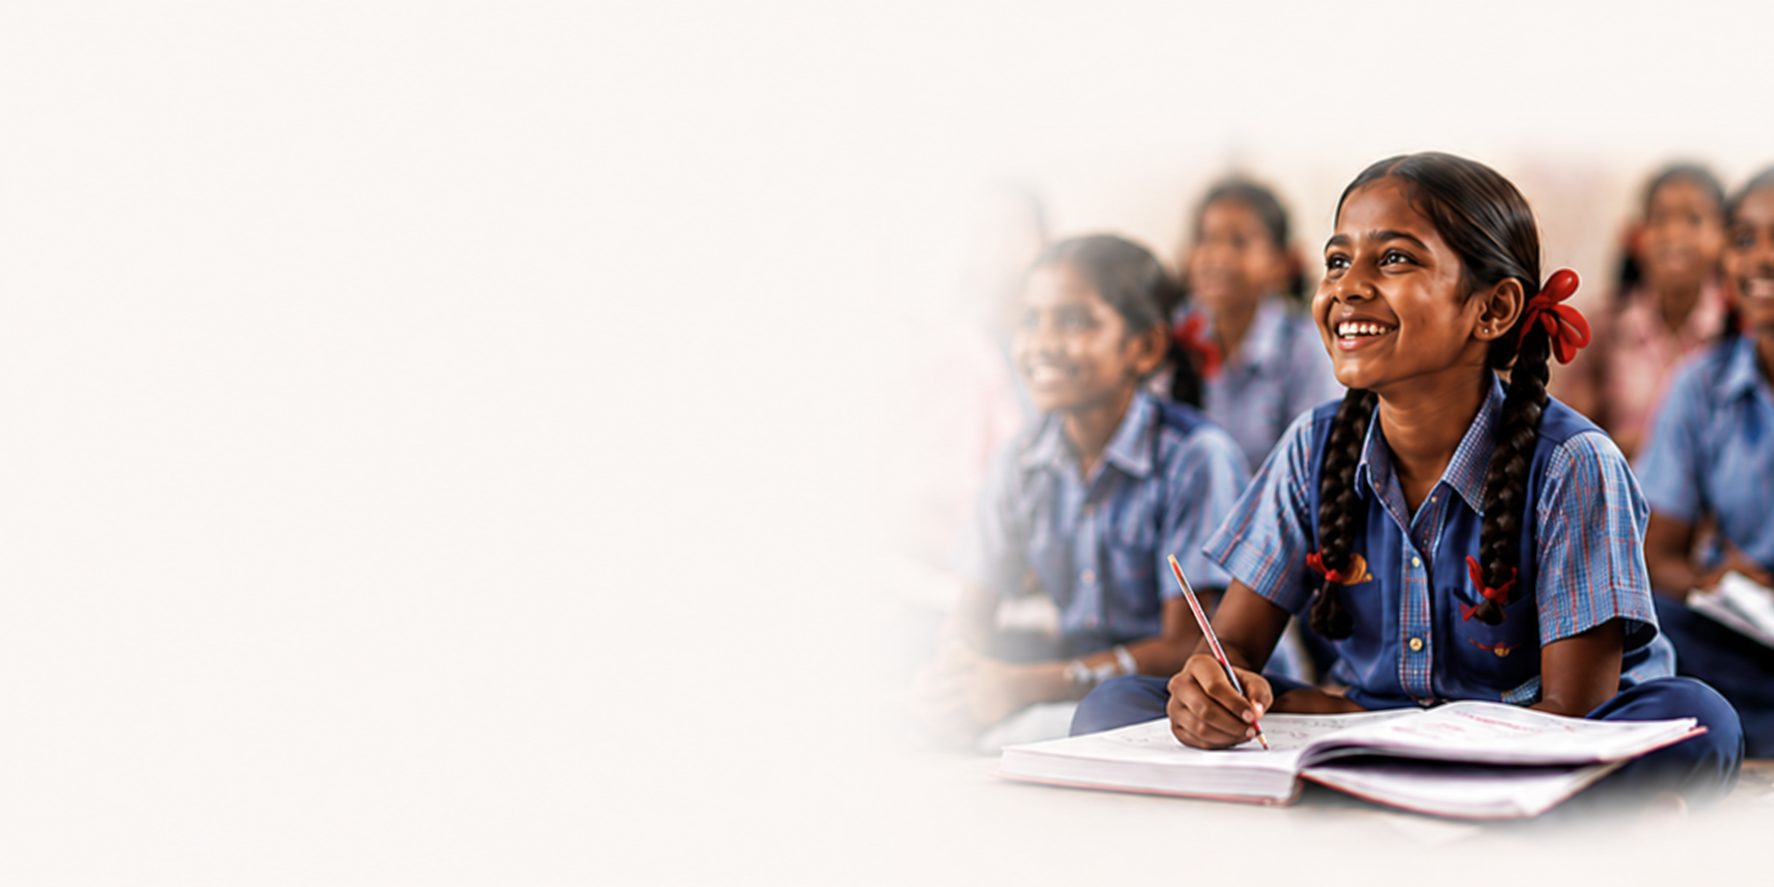
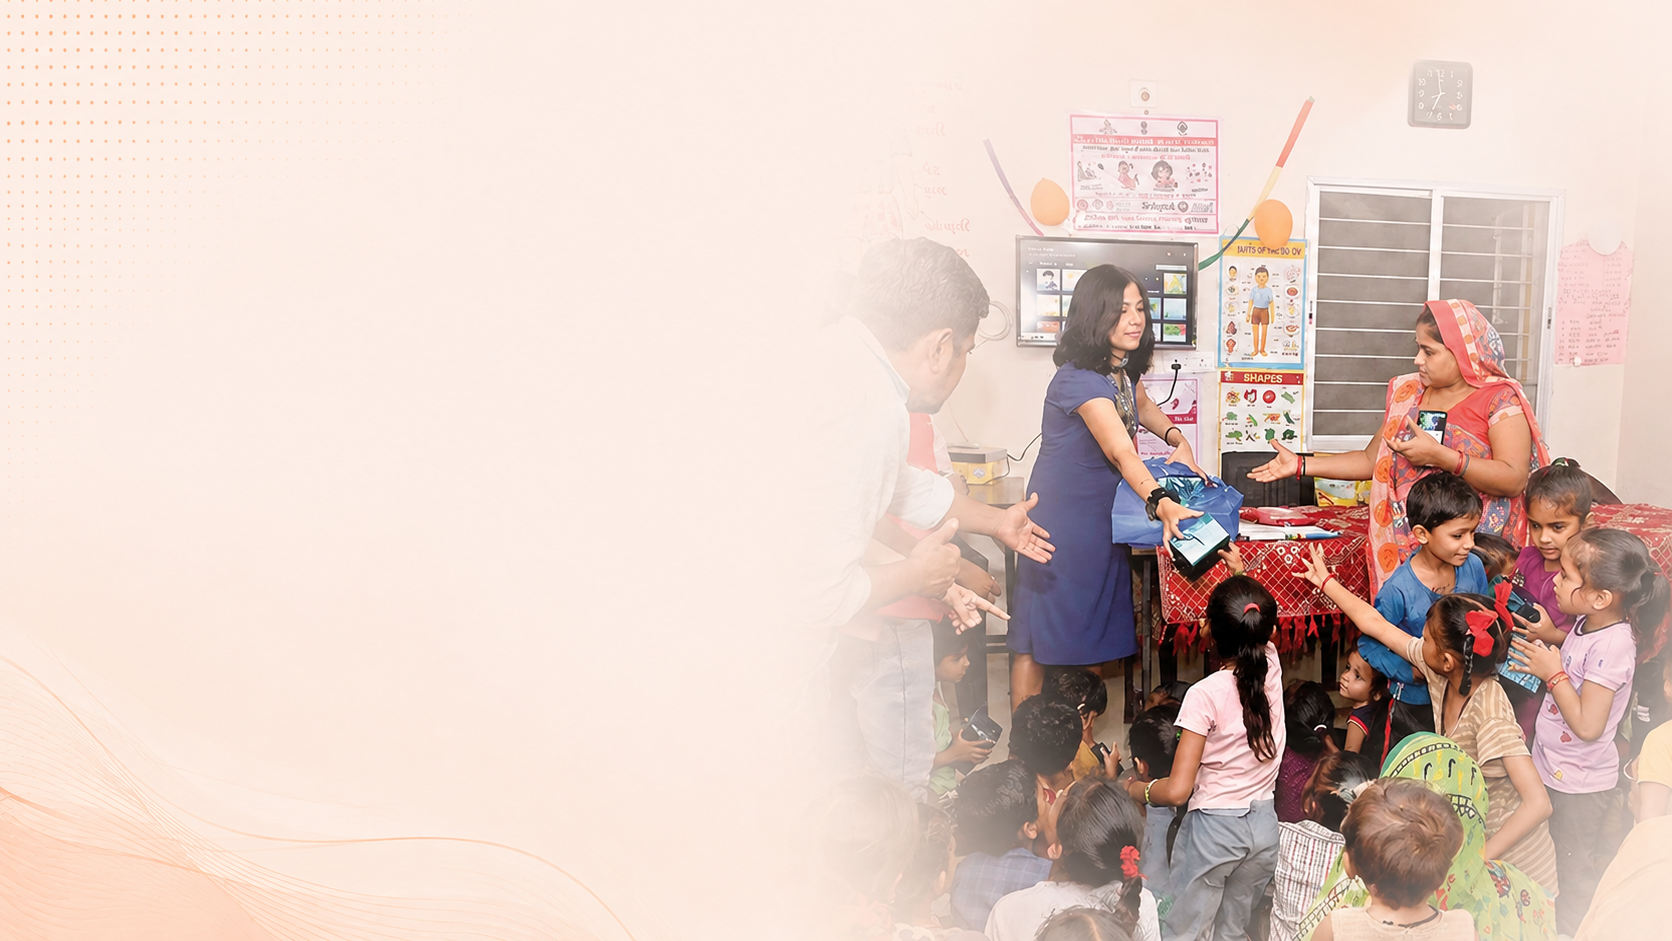
csr secod

diff --git a/frontend/src/pages/CSR/CSR.css b/frontend/src/pages/CSR/CSR.css
@@ -1,43 +1,60 @@
 .csr-hero {
-    padding: 100px 40px;
-    background: url('../../assets/images/CSR%20support%20Background.png') no-repeat center center/cover;
+    background: url('../../assets/images/CSR%20support%20Background.png') no-repeat center bottom;
+    background-size: cover;
     position: relative;
-    min-height: 400px;
+    height: calc(100vh - 80px); /* Fills the current page minus navbar */
+    width: 100%;
     display: flex;
     align-items: center;
-    justify-content: center;
-    color: white;
+    padding: 0 8%;
 }
 
-.csr-hero::before {
-    content: "";
-    position: absolute;
-    top: 0;
-    left: 0;
-    width: 100%;
-    height: 100%;
-    background: rgba(0, 0, 0, 0.5); /* Overlay to keep text readable */
-    z-index: 1;
-}
-
-.csr-hero-container {
-    position: relative;
+.csr-hero-left {
+    max-width: 550px;
     z-index: 2;
-    text-align: center;
-    max-width: 800px;
 }
 
-.csr-hero-title {
-    font-family: 'Manrope', sans-serif;
-    font-size: 56px;
-    font-weight: 700;
+.csr-subtitle-wrapper {
+    display: flex;
+    align-items: center;
+    gap: 15px;
     margin-bottom: 20px;
 }
 
-.csr-hero-description {
+.csr-subtitle {
+    color: #b81d22;
+    font-weight: 700;
+    font-size: 14px;
+    letter-spacing: 1px;
+    text-transform: uppercase;
+}
+
+.csr-subtitle-line {
+    width: 50px;
+    height: 2px;
+    background-color: #b81d22;
+}
+
+.csr-main-title {
+    font-family: 'Manrope', sans-serif;
+    font-size: 56px;
+    line-height: 1.15;
+    font-weight: 800;
+    margin-bottom: 25px;
+    color: #111;
+    letter-spacing: -0.5px;
+}
+
+.csr-red-text {
+    color: #b81d22;
+}
+
+.csr-description {
     font-family: 'Inter', sans-serif;
-    font-size: 20px;
+    font-size: 18px;
     line-height: 1.6;
+    color: #444;
+    font-weight: 500;
 }
 
 /* Base styles to push footer to bottom if page is empty */
@@ -47,7 +64,123 @@
     min-height: 100vh;
 }
 
+.csr-programs-section {
+    width: 100%;
+    padding: 20px 8%;
+    background-color: transparent;
+    display: flex;
+    justify-content: center;
+    margin-top: 20px; /* Lowered further */
+    z-index: 10;
+    position: relative;
+}
+
+.csr-programs-grid {
+    display: flex;
+    flex-wrap: wrap;
+    gap: 20px;
+    justify-content: center;
+    max-width: 1200px;
+    width: 100%;
+}
+
+.csr-program-card {
+    /* Glassmorphism styles */
+    background: rgba(184, 29, 34, 0.95); /* Increased red opacity */
+    backdrop-filter: blur(12px);
+    -webkit-backdrop-filter: blur(12px);
+    border: 1px solid rgba(255, 255, 255, 0.25);
+    border-radius: 16px;
+    
+    /* Reduced size */
+    width: 170px;
+    height: 170px;
+    
+    display: flex;
+    flex-direction: column;
+    align-items: center;
+    justify-content: center;
+    text-align: center;
+    padding: 20px 15px;
+    color: white;
+    
+    /* Added more depth */
+    box-shadow: 0 15px 35px rgba(0, 0, 0, 0.15), inset 0 0 0 1px rgba(255, 255, 255, 0.1);
+    transition: all 0.4s cubic-bezier(0.175, 0.885, 0.32, 1.275);
+    cursor: pointer;
+}
+
+.csr-program-card:hover {
+    transform: translateY(-8px) scale(1.02);
+    box-shadow: 0 25px 45px rgba(0, 0, 0, 0.2), 0 10px 20px rgba(184, 29, 34, 0.5), inset 0 0 0 1px rgba(255, 255, 255, 0.3);
+    background: #b81d22; /* Solid red on hover */
+}
+
+.csr-program-icon-wrapper {
+    margin-bottom: 15px;
+    display: flex;
+    justify-content: center;
+    align-items: center;
+}
+
+.csr-program-icon-wrapper svg {
+    width: 38px;
+    height: 38px;
+    transition: transform 0.3s ease;
+}
+
+.csr-program-card:hover .csr-program-icon-wrapper svg {
+    transform: scale(1.1);
+}
+
+.csr-program-title {
+    font-family: 'Inter', sans-serif;
+    font-size: 13px;
+    font-weight: 500;
+    line-height: 1.4;
+    margin: 0;
+}
+
+@media (max-width: 1200px) {
+    .csr-programs-grid {
+        gap: 15px;
+    }
+    .csr-program-card {
+        width: 160px;
+        height: 160px;
+    }
+}
+
+@media (max-width: 900px) {
+    .csr-programs-section {
+        margin-top: 0;
+        padding-top: 40px;
+    }
+    .csr-program-card {
+        width: 150px;
+        height: 150px;
+    }
+}
+
+@media (max-width: 600px) {
+    .csr-program-card {
+        width: 130px;
+        height: 130px;
+        padding: 15px 10px;
+    }
+    .csr-program-icon-wrapper {
+        margin-bottom: 12px;
+    }
+    .csr-program-icon-wrapper svg {
+        width: 30px;
+        height: 30px;
+    }
+    .csr-program-title {
+        font-size: 11px;
+    }
+}
+
 .csr-content {
-    flex: 1;
-    padding: 60px 40px;
+    min-height: 50vh;
+    padding: 0;
 }

diff --git a/frontend/src/pages/CSR/CSR.tsx b/frontend/src/pages/CSR/CSR.tsx
@@ -3,19 +3,82 @@ import Navbar from '../../components/Navbar/Navbar';
 import Footer from '../../components/Footer/Footer';
 import './CSR.css';
 
+const programs = [
+    {
+        title: "Rural Teacher\nFellows Programme",
+        icon: (
+            <svg xmlns="http://www.w3.org/2000/svg" width="44" height="44" viewBox="0 0 24 24" fill="none" stroke="currentColor" strokeWidth="1.25" strokeLinecap="round" strokeLinejoin="round"><path d="M16 21v-2a4 4 0 0 0-4-4H6a4 4 0 0 0-4 4v2"/><circle cx="9" cy="7" r="4"/><path d="M22 21v-2a4 4 0 0 0-3-3.87"/><path d="M16 3.13a4 4 0 0 1 0 7.75"/></svg>
+        )
+    },
+    {
+        title: "Research and\nCapacity Building",
+        icon: (
+            <svg xmlns="http://www.w3.org/2000/svg" width="44" height="44" viewBox="0 0 24 24" fill="none" stroke="currentColor" strokeWidth="1.25" strokeLinecap="round" strokeLinejoin="round"><path d="m7.5 4.27 9 5.15"/><path d="M21 8a2 2 0 0 0-1-1.73l-7-4a2 2 0 0 0-2 0l-7 4A2 2 0 0 0 3 8v8a2 2 0 0 0 1 1.73l7 4a2 2 0 0 0 2 0l7-4A2 2 0 0 0 21 16Z"/><path d="m3.3 7 8.7 5 8.7-5"/><path d="M12 22V12"/></svg>
+        )
+    },
+    {
+        title: "Life Skills\nfor Girls",
+        icon: (
+            <svg xmlns="http://www.w3.org/2000/svg" width="44" height="44" viewBox="0 0 24 24" fill="none" stroke="currentColor" strokeWidth="1.25" strokeLinecap="round" strokeLinejoin="round"><circle cx="12" cy="8" r="5"/><path d="M20 21a8 8 0 0 0-16 0"/></svg>
+        )
+    },
+    {
+        title: "Employment Enhancement\nProgramme for Youth",
+        icon: (
+            <svg xmlns="http://www.w3.org/2000/svg" width="44" height="44" viewBox="0 0 24 24" fill="none" stroke="currentColor" strokeWidth="1.25" strokeLinecap="round" strokeLinejoin="round"><rect width="20" height="14" x="2" y="7" rx="2" ry="2"/><path d="M16 21V5a2 2 0 0 0-2-2h-4a2 2 0 0 0-2 2v16"/></svg>
+        )
+    },
+    {
+        title: "Teacher Training for\nParticipatory Learning",
+        icon: (
+            <svg xmlns="http://www.w3.org/2000/svg" width="44" height="44" viewBox="0 0 24 24" fill="none" stroke="currentColor" strokeWidth="1.25" strokeLinecap="round" strokeLinejoin="round"><path d="M2 3h20"/><path d="M21 3v11a2 2 0 0 1-2 2H5a2 2 0 0 1-2-2V3"/><path d="m7 21 5-5 5 5"/></svg>
+        )
+    }
+];
+
 const CSR = () => {
     return (
         <div className="csr-page">
             <Navbar />
             <section className="csr-hero">
-                <div className="csr-hero-container">
-                    <h1 className="csr-hero-title">CSR Support</h1>
-                    <p className="csr-hero-description">
-                        Empowering communities through impactful programs.
+                <div className="csr-hero-left">
+                    <div className="csr-subtitle-wrapper">
+                        <span className="csr-subtitle">CSR SUPPORT</span>
+                        <div className="csr-subtitle-line"></div>
+                    </div>
+                    <h1 className="csr-main-title">
+                        Creating Opportunities.<br/>
+                        Building Stronger<br/>
+                        <span className="csr-red-text">Communities.</span>
+                    </h1>
+                    <p className="csr-description">
+                        Through collaborative partnerships, we empower<br/>
+                        educators, equip young learners and strengthen<br/>
+                        communities for a better tomorrow.
                     </p>
                 </div>
             </section>
             
+            <section className="csr-programs-section">
+                <div className="csr-programs-grid">
+                    {programs.map((program, index) => (
+                        <div className="csr-program-card" key={index}>
+                            <div className="csr-program-icon-wrapper">
+                                {program.icon}
+                            </div>
+                            <h3 className="csr-program-title">
+                                {program.title.split('\n').map((line, i) => (
+                                    <React.Fragment key={i}>
+                                        {line}
+                                        {i < program.title.split('\n').length - 1 && <br />}
+                                    </React.Fragment>
+                                ))}
+                            </h3>
+                        </div>
+                    ))}
+                </div>
+            </section>
+
             <div className="csr-content">
                 {/* Content goes here */}
             </div>
